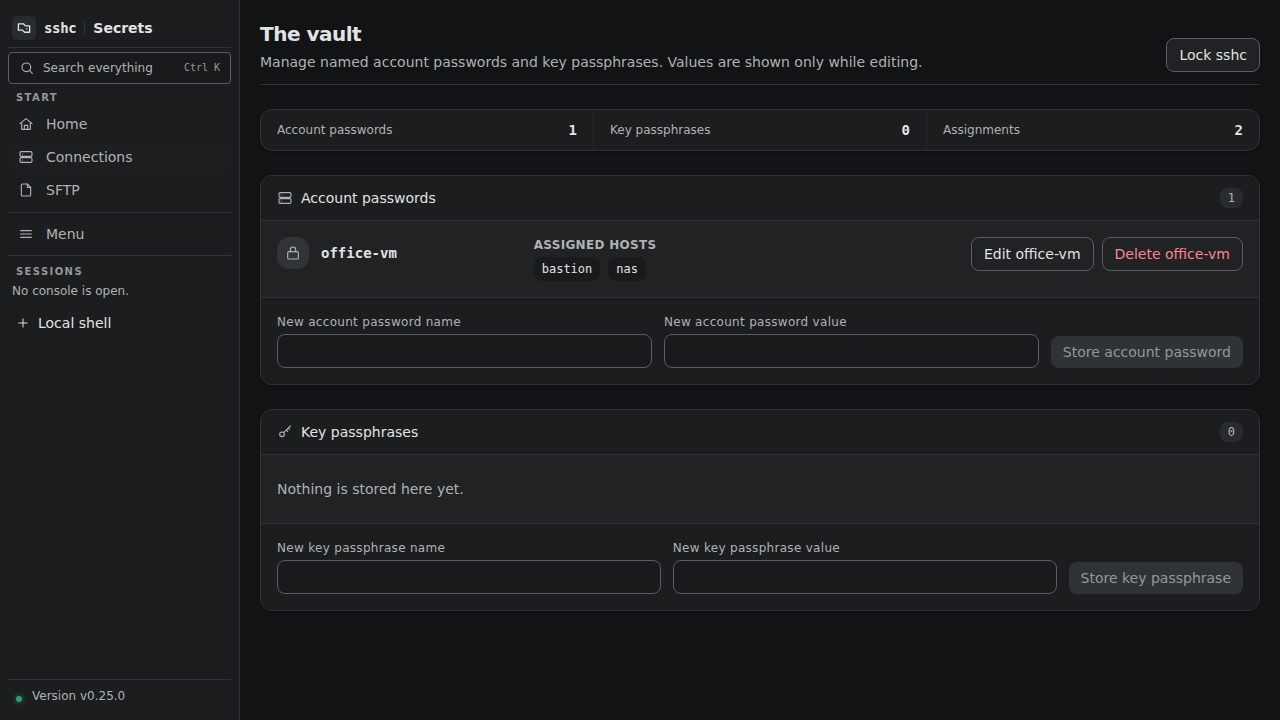
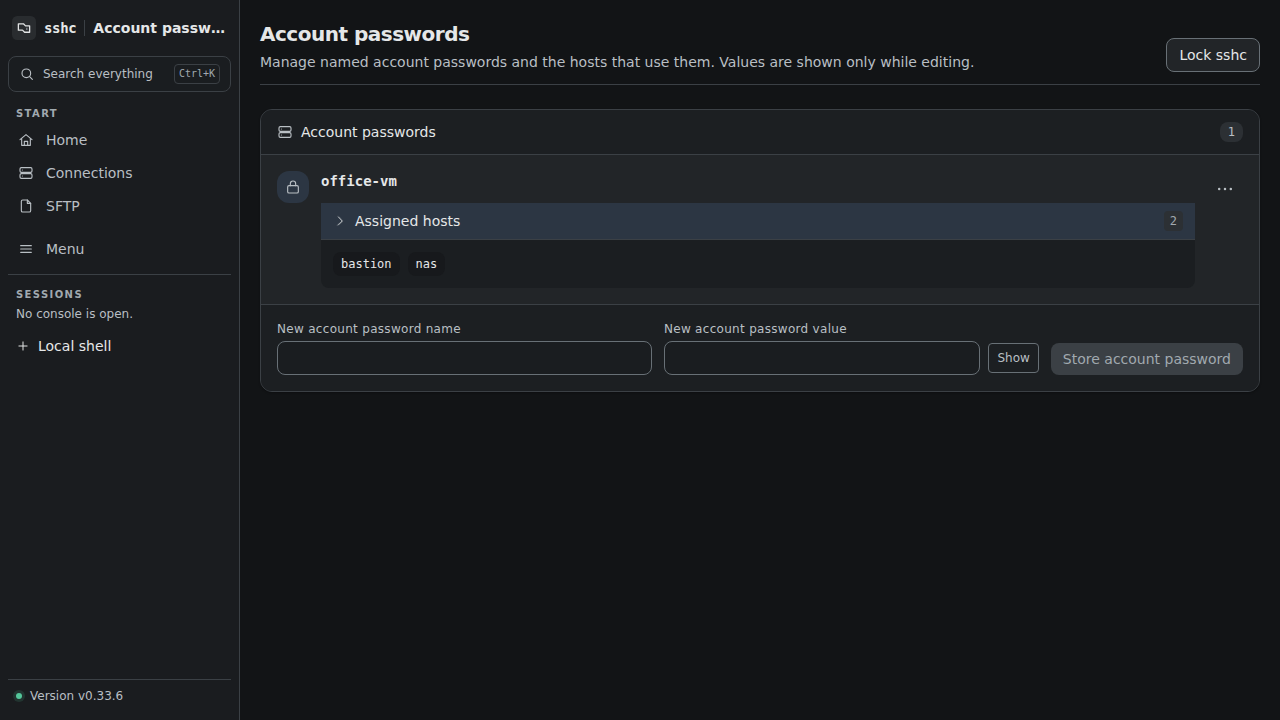
docs(pages): 現行UIのスクリーンショットを更新
v0.33.6の画面構成に合わせてREADMEとPagesの24枚を再撮影する。撮影スクリプトで最新タグを表示し、SFTPとVaultの資料画像を安定して再生成できるようにする。

diff --git a/web/e2e/sftp-transfer.spec.ts b/web/e2e/sftp-transfer.spec.ts
@@ -1,7 +1,7 @@
 import { changeDisplayLanguage, expect, openApplication, openSection, test } from "./support/environment";
 
 test("keeps a chunked SFTP upload visible while another section is open", async ({ page, installation }) => {
-  test.setTimeout(process.env.SSHC_VISUAL_DIR === undefined ? 30_000 : 120_000);
+  test.setTimeout(process.env.SSHC_VISUAL_DIR === undefined ? 30_000 : 180_000);
   let releaseFirstChunk: (() => void) | undefined;
   const firstChunkGate = new Promise<void>((resolve) => { releaseFirstChunk = resolve; });
   let offset = 0;
@@ -243,8 +243,11 @@ test("keeps a chunked SFTP upload visible while another section is open", async 
     await page.screenshot({ path: `${visualDirectory}/sftp-compare-ja.png`, fullPage: true });
     await compareDialog.getByRole("button", { name: "キャンセル" }).click();
     await changeDisplayLanguage(page, "en");
+    const englishFirstPane = page.getByLabel("First remote pane");
     const englishSecondPane = page.getByLabel("Second remote pane");
     await expect(englishSecondPane.locator("button[data-value]:visible")).toHaveAttribute("data-value", "nas");
+    await chooseHost("bastion", englishFirstPane);
+    await chooseHost("nas", englishSecondPane);
     await page.getByRole("button", { name: "Compare directories", exact: true }).click();
     const englishCompareDialog = page.getByRole("dialog", { name: "Compare directories" });
     await expect(englishCompareDialog.getByText("Left only", { exact: true })).toBeVisible();
@@ -282,7 +285,7 @@ test("keeps a chunked SFTP upload visible while another section is open", async 
     await expect(page.getByRole("tablist", { name: "Left pane tabs" })).toBeVisible();
     await expect(page.getByRole("tablist", { name: "Right pane tabs" })).toHaveCount(0);
     await expect(page.locator('[aria-label="First remote pane"]')).toBeVisible();
-    await expect(page.locator('[aria-label="Second remote pane"]')).toHaveCount(0);
+    await expect(page.locator('[aria-label="Second remote pane"]')).toBeHidden();
     await expect(page.getByRole("button", { name: "Two panes" })).toHaveCount(0);
     await expect(page.getByRole("button", { name: "One pane" })).toHaveCount(0);
     await expect(page.getByRole("button", { name: "Compare directories", exact: true })).toHaveCount(0);
@@ -299,18 +302,10 @@ test("keeps a chunked SFTP upload visible while another section is open", async 
     });
     await expect(page.getByText(/Upload failed: broken\.bin/)).toBeVisible();
     await changeDisplayLanguage(page, "ja");
-    const mobileTransferManager = page.getByRole("region", { name: "転送マネージャー" });
-    await mobileTransferManager.getByRole("button", { name: "転送マネージャーを展開" }).click();
-    const mobileResizeGrip = mobileTransferManager.getByRole("separator", { name: "ドラッグして転送キューの高さを変える" });
-    const mobileResizeBounds = await mobileResizeGrip.boundingBox();
-    expect(mobileResizeBounds?.height).toBeGreaterThanOrEqual(24);
-    if (mobileResizeBounds !== null) {
-      await page.mouse.move(mobileResizeBounds.x + mobileResizeBounds.width / 2, mobileResizeBounds.y + mobileResizeBounds.height / 2);
-      await page.mouse.down();
-      await page.mouse.move(mobileResizeBounds.x + mobileResizeBounds.width / 2, mobileResizeBounds.y - 88);
-      await page.mouse.up();
-    }
-    await expect(mobileResizeGrip).toHaveAttribute("aria-valuenow", "308");
+    await page.getByRole("button", { name: "転送マネージャーを展開" }).click();
+    const mobileTransferManager = page.getByRole("dialog", { name: "転送マネージャー" });
+    await expect(mobileTransferManager).toBeVisible();
+    await expect(mobileTransferManager.getByRole("separator")).toHaveCount(0);
     await expect(mobileTransferManager.getByText("失敗 · sftp_failed", { exact: true })).toBeVisible();
     await mobileTransferManager.getByRole("button", { name: "転送キューの操作" }).click();
     await expect(page.getByRole("menuitem", { name: "すべてキャンセル" })).toBeInViewport();
@@ -320,7 +315,7 @@ test("keeps a chunked SFTP upload visible while another section is open", async 
     await page.keyboard.press("Escape");
     await mobileTransferManager.getByRole("button", { name: "一覧から削除" }).click();
     await expect(mobileTransferManager.getByText("broken.bin", { exact: true })).toHaveCount(0);
-    await mobileTransferManager.getByRole("button", { name: "転送マネージャーを折りたたむ" }).click();
+    await mobileTransferManager.getByRole("button", { name: "転送マネージャーを閉じる" }).click();
     await changeDisplayLanguage(page, "en");
     await page.locator("button[data-value]").first().click();
     await expect(page.getByRole("dialog", { name: "Choose a remote host" })).toBeVisible();

diff --git a/web/e2e/secrets.spec.ts b/web/e2e/secrets.spec.ts
@@ -49,10 +49,7 @@ test("gives one named secret to two hosts and writes neither name into the file"
   await expect(assignedHosts.getByRole("listitem")).toHaveText(["bastion", "nas"]);
 
   if (process.env.SSHC_VISUAL_DIR !== undefined) {
-    await page.evaluate(() => window.localStorage.setItem("sshc.language", "ja"));
-    await page.reload();
-    await expect(page.getByRole("region", { name: "アカウントのパスワード" })).toBeVisible();
-    await page.setViewportSize({ width: 1280, height: 900 });
+    await page.setViewportSize({ width: 1280, height: 720 });
     await page.screenshot({ path: `${process.env.SSHC_VISUAL_DIR}/vault-account-passwords.png`, fullPage: true });
   }
 

diff --git a/web/e2e/narrow.spec.ts b/web/e2e/narrow.spec.ts
@@ -342,7 +342,7 @@ test("draws one separator above the version in the mobile drawer", async ({ page
   await page.route("**/api/v1/update", async (route) => {
     await route.fulfill({
       contentType: "application/json",
-      body: JSON.stringify({ current: "test", available: false }),
+      body: JSON.stringify({ current: process.env.SSHC_VISUAL_VERSION ?? "test", available: false }),
     });
   });
   await openApplication(page, installation);

diff --git a/web/e2e/shell.spec.ts b/web/e2e/shell.spec.ts
@@ -25,7 +25,7 @@ async function stubUpdateStatus(page: import("@playwright/test").Page) {
   await page.route("**/api/v1/update", async (route) => {
     await route.fulfill({
       contentType: "application/json",
-      body: JSON.stringify({ current: "test", available: false }),
+      body: JSON.stringify({ current: process.env.SSHC_VISUAL_VERSION ?? "test", available: false }),
     });
   });
 }
